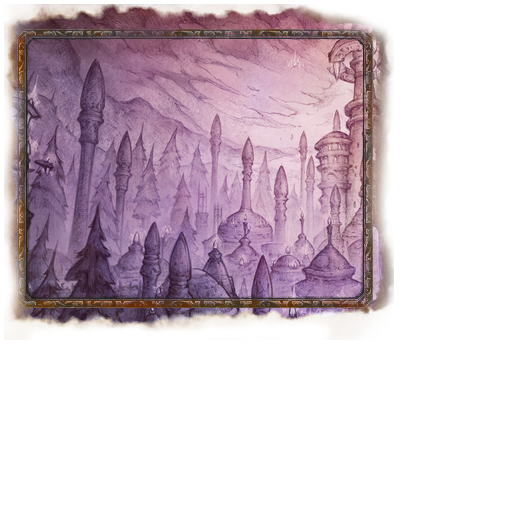
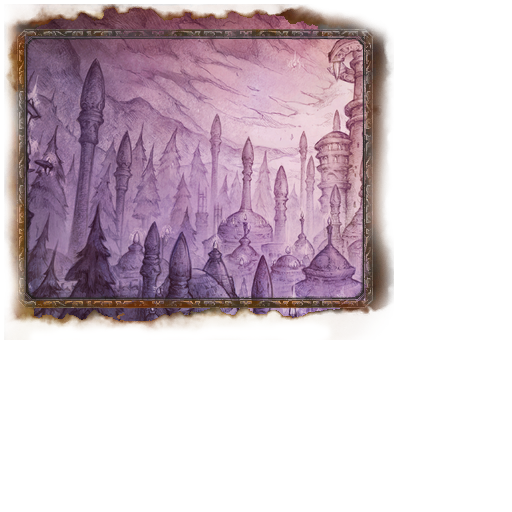
Fade the torn edge in parchment, not in the picture
The top and bottom of the torn edge met the page too hard next to retail's.

Where the mask is feathered the pixel is torn edge, which is frame by definition
-- no picture ever reaches it. Leaving those pixels to the spread test let the
picture through in patches, so the edge faded out in the picture's own colour
instead of the parchment's.

Measured across the feathered band, warmth as red minus blue: ours was +49
against Blackrock Spire's +78. All five now sit at +70, inside the range retail's
own art covers (+49 to +78), and identical to each other, which is right when
they share one extracted frame.

diff --git a/tools/make_lorebg.py b/tools/make_lorebg.py
@@ -181,6 +181,14 @@ def cmd_frame(args):
     for y in range(BOX[1], BOX[3]):
         for x in range(BOX[0], BOX[2]):
             vs = [p[x, y] for p in px]
+            # Where the mask is feathered the pixel is torn edge, which is frame by
+            # definition -- no picture ever reaches it. Leaving it to the spread
+            # test let the picture through in patches, so the edge faded out in the
+            # picture's own colour instead of the parchment's.
+            if mp[x, y] < 250:
+                rgb = tuple(int(statistics.median(v[c] for v in vs)) for c in range(3))
+                fp[x, y] = rgb + (255,)
+                continue
             lum = sorted(sum(v[:3]) / 3 for v in vs)
             spread = lum[int(len(lum) * 0.9)] - lum[int(len(lum) * 0.1)]
             if spread >= FRAME_HI:
